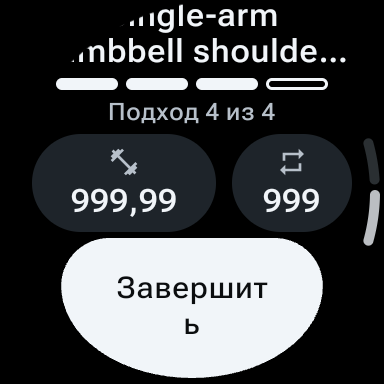
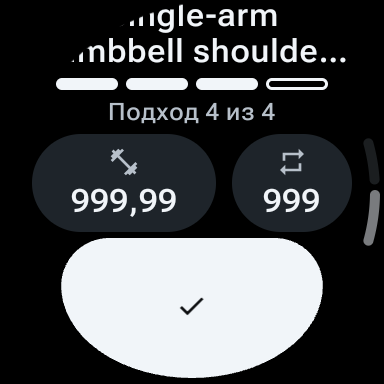
fix(wear): the anchored unavailability word must not sit on the content
Re-capturing the small-screen images after the glyph change showed «Недоступно»
printed on top of «Подход 2 из 5». Moving the word out of the arc had put it in
the same band as the bottom of the scroll viewport, and no gate expresses that:
G1's overlap clause only compares nodes carrying a click action, and neither of
these two is clickable.

The scroll viewport now also clears the word when it is shown
(UNAVAILABLE_WORD_CLEARANCE, sized for its 21dp line at the largest font
scale). Verified on the device, not by inference — the re-captured
small-round-192dp-ru-disabled.png shows the word clear of the content.

Images re-captured after the label change and re-measured off the pixels:
92/60dp at 192dp and 121/79dp at 240dp, 1.53:1 in both locales, unchanged. The
README now states plainly which elements are visible at rest on the small
screen — status, exercise name, set scale, set progress, and the anchored
action, with both value cards below the fold — and records the fold as an open
design question rather than acting on it.

Device suite 6/6 on the round emulator after the change.

Claude-Session: https://claude.ai/code/session_01RhvCF9rprY7z8VPJQf96E8

Changed region(s): [[0.3125, 0.7188, 0.6875, 0.875], [0.9375, 0.5, 1.0, 0.6562]]

diff --git a/app/wear/src/main/kotlin/io/github/stslex/workeeper/wear/ui/WearControllerScreen.kt b/app/wear/src/main/kotlin/io/github/stslex/workeeper/wear/ui/WearControllerScreen.kt
@@ -136,7 +136,13 @@ private fun ActiveScaffold(
     onEdit: (NumericField) -> Unit,
 ) {
     val scrollState = rememberScrollState()
-    val clearance = MEDIUM_EDGE_CLEARANCE.dp
+    // The unavailability word is anchored above the arc, so the scroll viewport must clear it
+    // too — otherwise the word lands on top of the last line of content.
+    val clearance = if (model.completeEnabled) {
+        MEDIUM_EDGE_CLEARANCE.dp
+    } else {
+        (MEDIUM_EDGE_CLEARANCE + UNAVAILABLE_WORD_CLEARANCE).dp
+    }
     ScreenScaffold(
         scrollState = scrollState,
         contentPadding = activeContentPadding(),
@@ -850,6 +856,12 @@ private const val CARD_ICON = 16
 
 /** The primary action's check glyph. Larger than a card icon: it is the action itself. */
 private const val COMPLETE_GLYPH = 16
+
+/**
+ * Extra viewport inset for the unavailability word above the arc. Sized for its line at the
+ * largest font scale (21dp measured), so the word never lands on the content behind it.
+ */
+private const val UNAVAILABLE_WORD_CLEARANCE = 24
 
 /**
  * The weight card's share of the two-card row, against the reps card's 1f. 92:60 on a 192dp

diff --git a/documentation/feature-specs/wear-card-asymmetry/README.md b/documentation/feature-specs/wear-card-asymmetry/README.md
@@ -29,17 +29,27 @@ Card fill (`#1E242A`) extents, read off the pixels rather than quoted from the l
 
 Content width inside each card is 16dp less: 76dp / 44dp on small, 105dp / 63dp on XL.
 
-## Two things the images show that no gate measures
+## What is visible at rest on the small screen — reported, not acted on
 
-1. **On a 192dp screen the cards sit below the fold at rest.** `small-round-192dp-en.png`
-   and `small-round-192dp-ru.png` are the surface as it first appears: only the top edges
-   of the cards clear the anchored button, and the values need a scroll to read. The
-   `-scrolled` pair is the same surface after one swipe. This is consistent with the touch
-   gate, which scrolls before tapping a card on the small profile, but it is worth seeing.
-2. **«Завершить» wraps mid-word on the small screen** — `small-round-192dp-ru.png` renders
-   it as «Завершит» / «ь». The overflow gate is green here and correct to be: the label
-   allows two lines and neither line overflows, so a break *inside* the allowance is
-   invisible to it. A gate that expressed "does not split a word" would be a different
-   instrument.
+`small-round-192dp-en.png` and `small-round-192dp-ru.png` are the 192dp surface as it first
+appears, before any scrolling. Visible at rest, in order: the **connection dot and status
+word**, the **exercise name** (two lines, ellipsized), the **set scale pills**, the **set
+progress line** («Подход 4 из 4»), and the **anchored primary action**. The **two value
+cards are below the fold** — only their top edges clear the button — so neither the weight
+nor the reps can be read without scrolling. `small-round-192dp-ru-disabled.png` shows the
+read-only variant, where the unavailability word «Недоступно» is anchored above the arc and
+the set-progress line has scrolled out.
 
-Both are reported on PR #284 rather than acted on.
+The `-scrolled` pair is the same surface after one swipe, which is what the width table
+above is measured from. This is consistent with the touch gate, which already scrolls before
+tapping a card on this profile. Whether the fold is acceptable is a design question and is
+recorded here untouched.
+
+## The mid-word break, fixed
+
+An earlier revision rendered «Завершить» as «Завершит» / «ь» — the primary action split
+inside a word. The overflow gate was green and right to be: the label allowed two lines and
+neither overflowed, so a break *inside* the allowance was invisible to it. Gate G10 now
+states the missing invariant, and measurement chose the label: «Завершить» split at 192dp on
+both font scales and at 240dp on the default scale, and «Complete» split at 192dp, so the
+action carries a check glyph with the wording in its content description.
